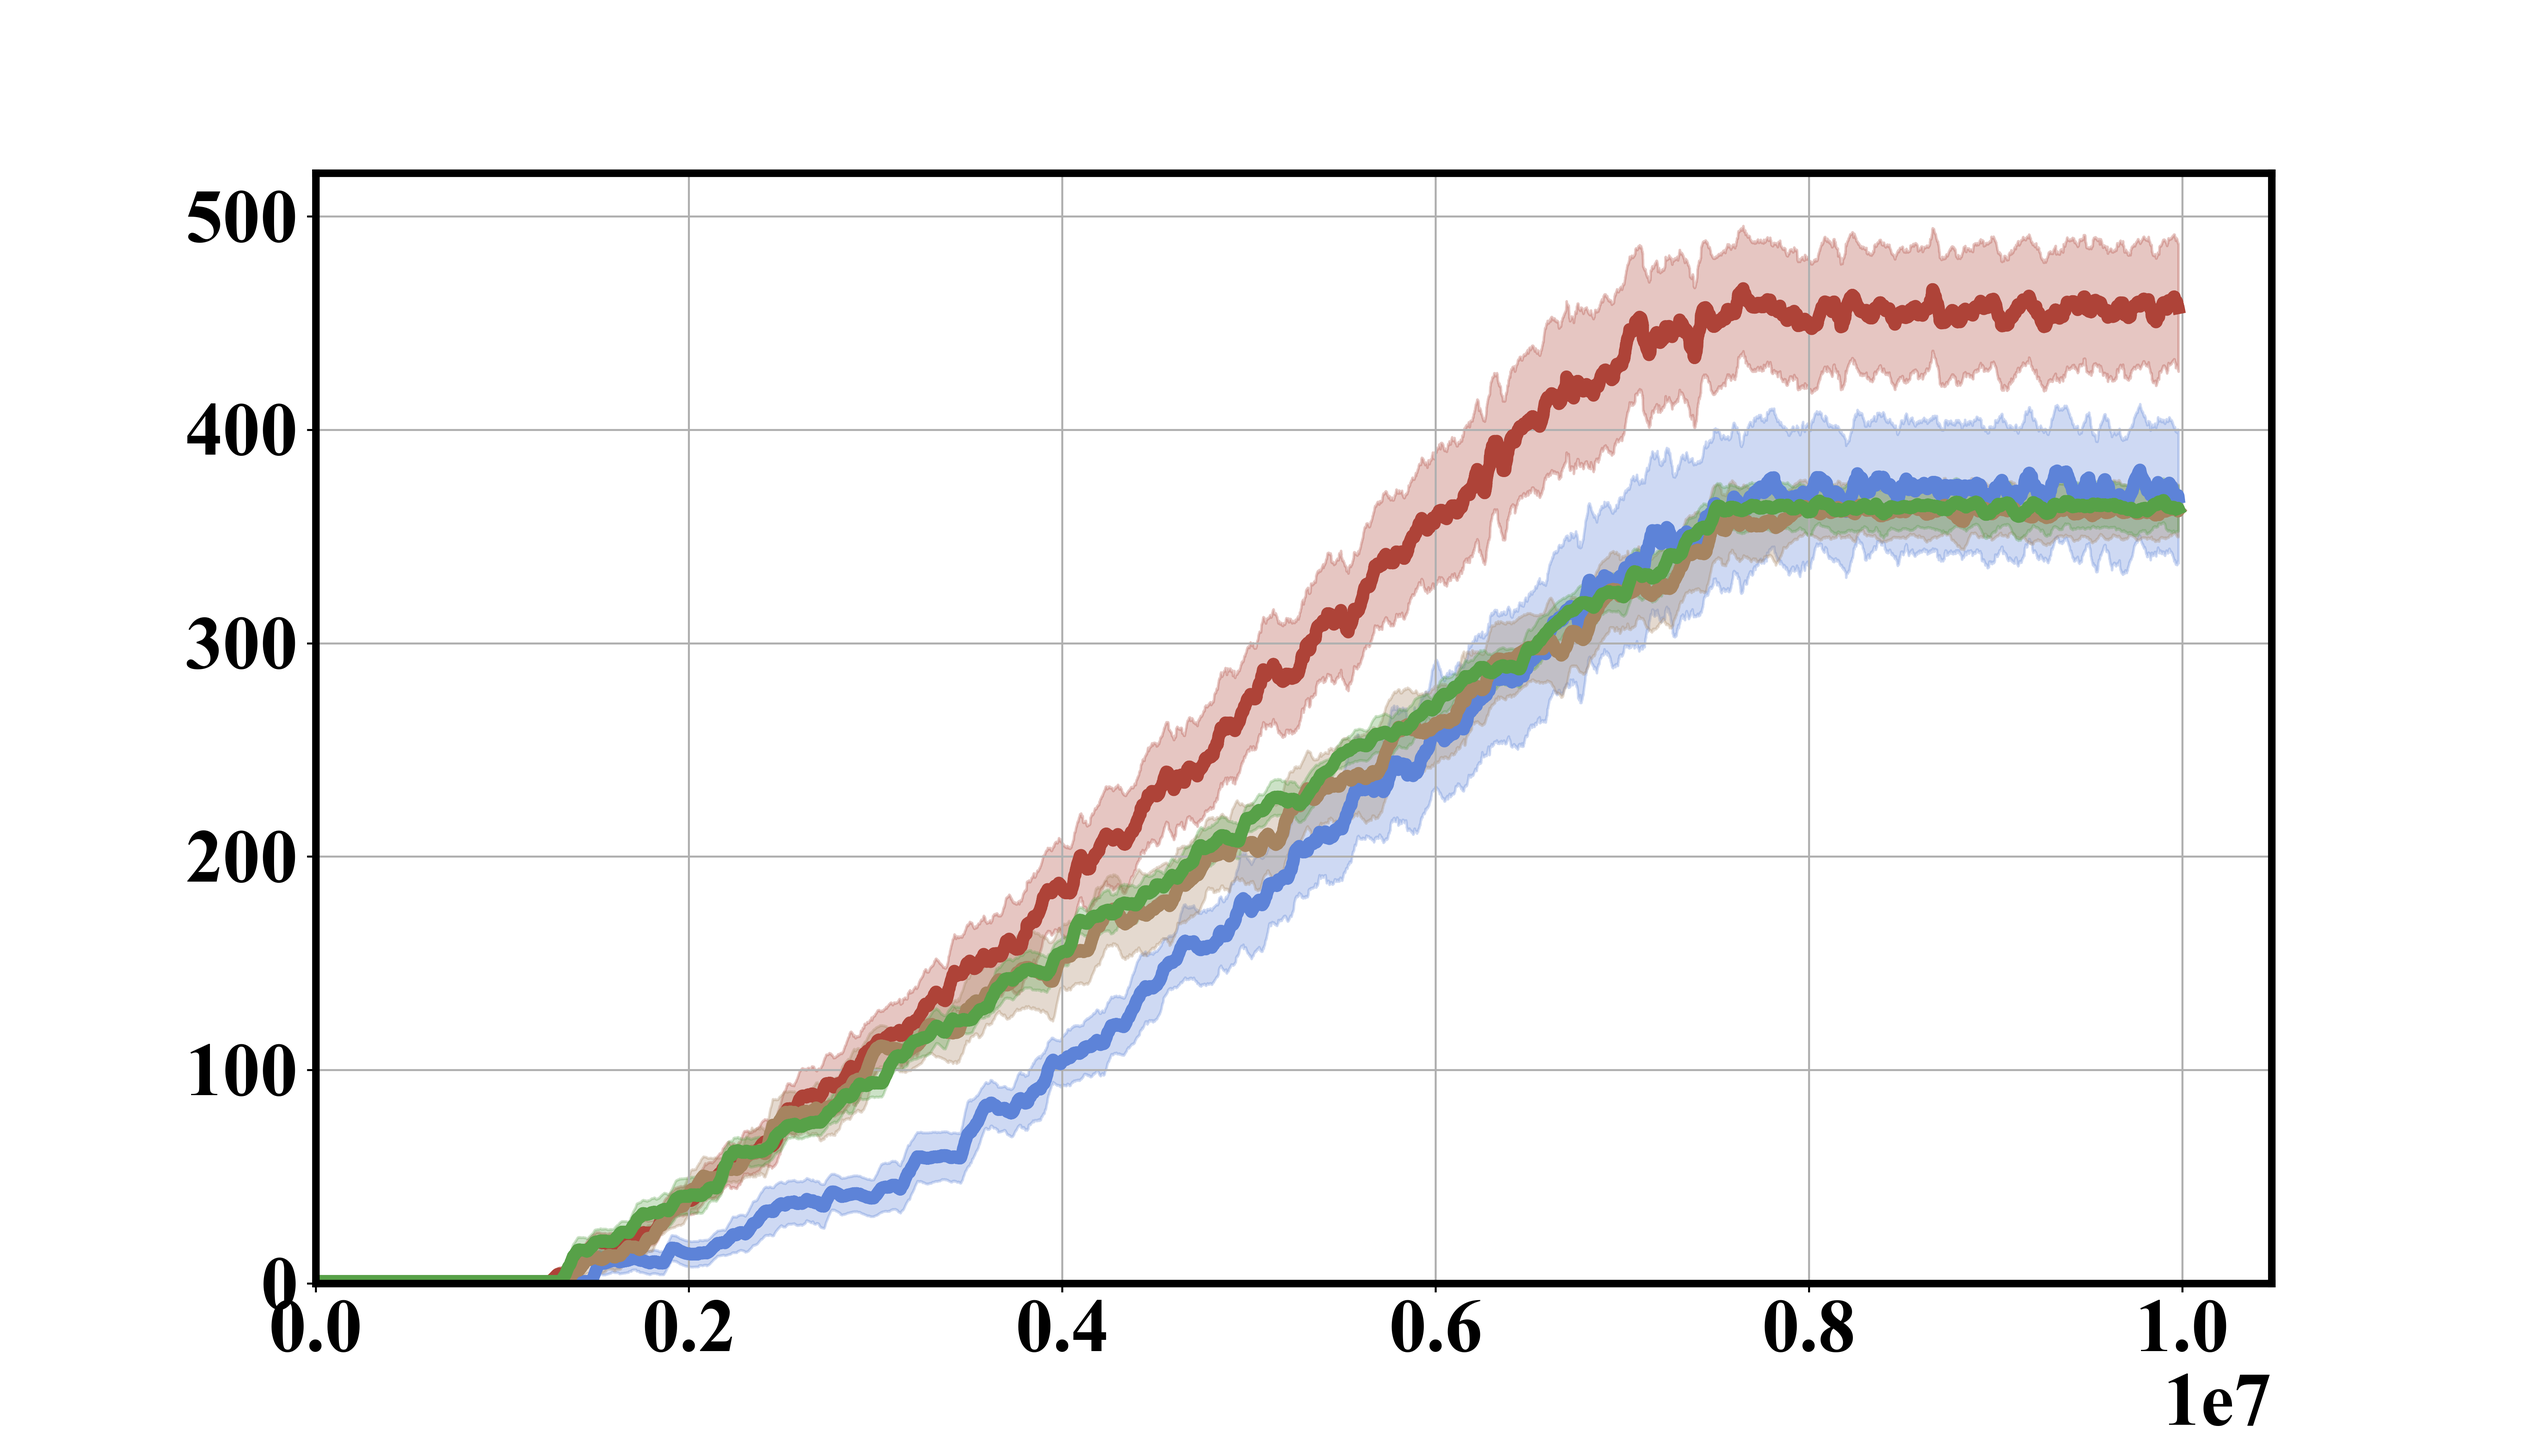
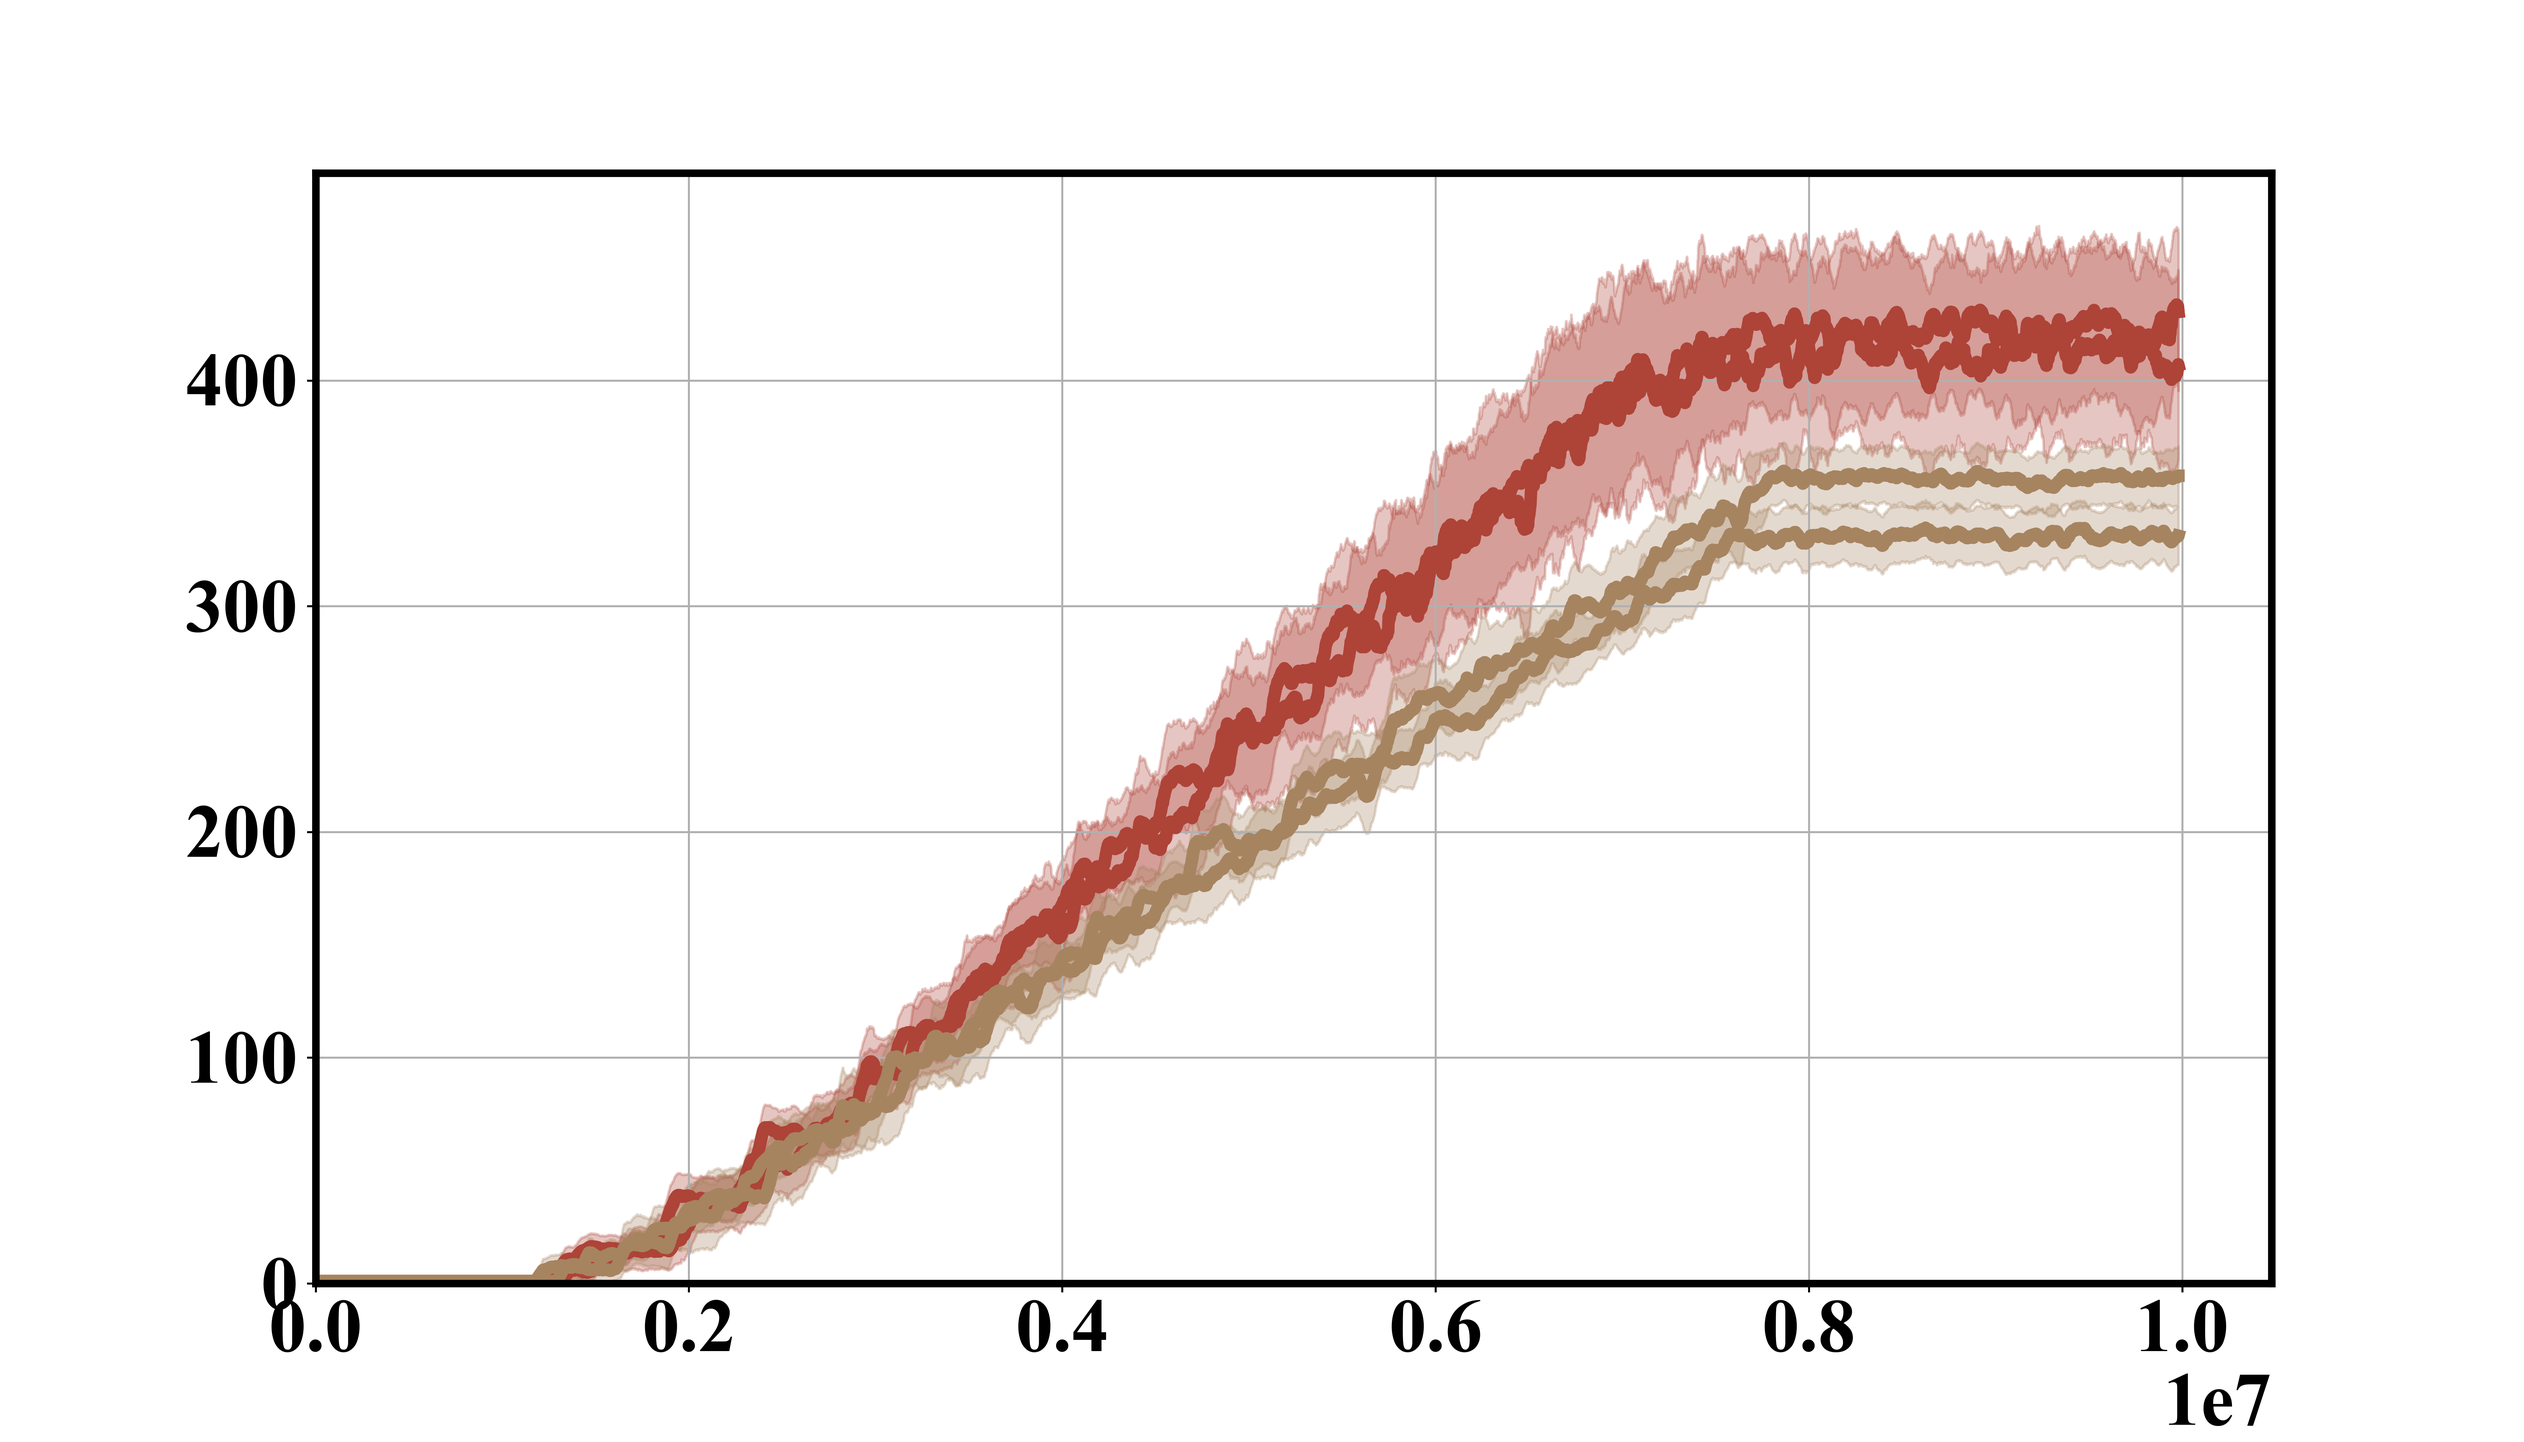
:sparkles: Add slope info

diff --git a/post_processing/draw_figures.py b/post_processing/draw_figures.py
@@ -3,7 +3,9 @@ import os
 from typing import Tuple, List, Dict
 
 import matplotlib.pyplot as plt
+import numpy as np
 import pandas as pd
+import scipy.stats as stats
 
 
 # 러닝 애버리지 계산 함수
@@ -124,6 +126,18 @@ def plot_groups(
             color=color,
         )
 
+        if "global_step" in axis_x_name and "episode" in axis_y_name:
+            # print(f"{avg_data[axis_x_name]=}")
+            # print(f"{avg_data[axis_y_name]=}")
+            avg_data[axis_y_name] *= 100000
+            # Report the slope and its std using the last point
+            slope, intercept = np.polyfit(avg_data[axis_x_name], avg_data[axis_y_name], 1)
+            # 2. 기울기의 표준 편차 계산
+            regression_result = stats.linregress(avg_data[axis_x_name], avg_data[axis_y_name])
+            slope_std = regression_result.stderr
+            # print(f"{groups_name}/{group_name};{axis_x_name}/{axis_y_name}: slope={slope:.2f}±{slope_std:.2f}")
+            print(f"{groups_name}/{group_name};{axis_y_name}:        {slope:.2f}\\stdv{{{slope_std:.2f}}}")
+
     # plt.xlabel(axis_x_name)
     # plt.ylabel(axis_y_name)
     # plt.legend()
@@ -157,28 +171,44 @@ def main():
 
     useful_groupnames = {
         "cross_0-global_step_episode": (
-            "v30-crossw2-transition-2000000-0",
-            "v30-crossw2-d2s-3000000-0",
-            "v30-crossw2-dense-0",
-            "v30-crossw2-sparse-0",
+            # "v30-crossw2-transition-2000000-0",
+            "v30-crossw2-transition-1000000-0",
+            "v30-crossw2-transition-3000000-0",
+            # "v30-crossw2-d2s-3000000-0",
+            "v30-crossw2-d2s-2000000-0",
+            "v30-crossw2-d2s-1000000-0",
+            # "v30-crossw2-dense-0",
+            # "v30-crossw2-sparse-0",
         ),
         "cross_1-global_step_episode": (
-            "v30-crossw2-transition-2000000-1",
-            "v30-crossw2-d2s-2000000-1",
-            "v30-crossw2-dense-1",
-            "v30-crossw2-sparse-1",
+            "v30-crossw2-transition-1000000-1",
+            "v30-crossw2-transition-3000000-1",
+            # "v30-crossw2-transition-2000000-1",
+            # "v30-crossw2-d2s-2000000-1",
+            "v30-crossw2-d2s-1000000-1",
+            "v30-crossw2-d2s-3000000-1",
+            # "v30-crossw2-dense-1",
+            # "v30-crossw2-sparse-1",
         ),
         "cross_2-global_step_episode": (
-            "v30-crossw2-transition-2000000-2",
-            "v30-crossw2-d2s-2000000-2",
-            "v30-crossw2-dense-2",
-            "v30-crossw2-sparse-2",
+            # "v30-crossw2-transition-2000000-2",
+            "v30-crossw2-transition-1000000-2",
+            "v30-crossw2-transition-3000000-2",
+            # "v30-crossw2-d2s-2000000-2",
+            "v30-crossw2-d2s-1000000-2",
+            "v30-crossw2-d2s-3000000-2",
+            # "v30-crossw2-dense-2",
+            # "v30-crossw2-sparse-2",
         ),
         "room": (
-            "v31-room-v1-transition-3000000",
-            "v31-room-v1-d2s-3000000",
-            "v31-room-v1-sparse",
-            "v31-room-v1-dense",
+            "v31-room-v1-transition-1000000",
+            "v31-room-v1-transition-2000000",
+            # "v31-room-v1-transition-3000000",
+            # "v31-room-v1-d2s-3000000",
+            "v31-room-v1-d2s-2000000",
+            "v31-room-v1-d2s-1000000",
+            # "v31-room-v1-sparse",
+            # "v31-room-v1-dense",
         ),
     }
     flatten_groupnames = [
